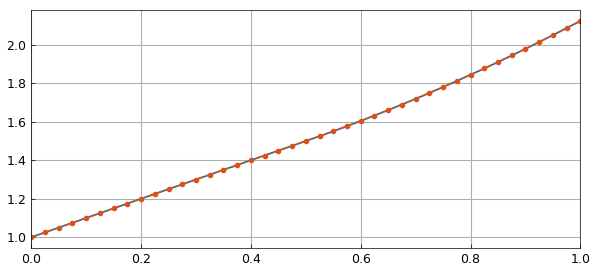
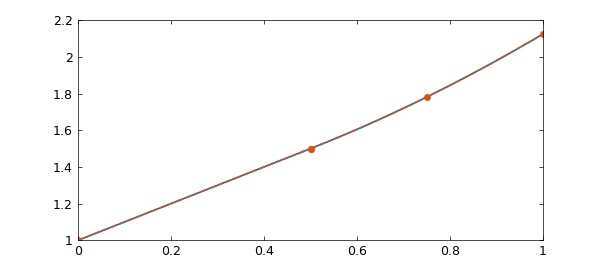
Verify two-interval delay output and preserve integration gap evidence

diff --git a/examples/ode-nonlin/delay_differential_equations.py b/examples/ode-nonlin/delay_differential_equations.py
@@ -217,6 +217,22 @@ def _source_interval_boundary_curve(numerical):
     return fig
 
 
+def _source_two_interval_delay_curve(exact, numerical):
+    """Render the source two-interval constant-delay plot with reference axes."""
+    from chebfunjax.plotting import matlab_plot
+
+    fig = plt.figure(figsize=(6, 2.7))
+    ax = fig.add_axes([.13, .11, .775, .815])
+    matlab_plot(exact, "-", numerical, ".--", ax=ax, markersize=15)
+    ax.set(xlim=(0, 1), ylim=(1, 2.2),
+           xticks=np.arange(0, 1.01, .2), yticks=np.arange(1, 2.21, .2))
+    ax.xaxis.set_major_formatter(FormatStrFormatter("%g"))
+    ax.yaxis.set_major_formatter(FormatStrFormatter("%g"))
+    ax.grid(False)
+    ax.tick_params(direction="in", top=True, right=True)
+    return fig
+
+
 def _source_second_order_delay_curve(exact, numerical):
     """Render the source second-order pantograph plot with reference axes."""
     from chebfunjax.plotting import matlab_plot
@@ -396,13 +412,13 @@ def run():
                domain=(0.0, 0.5, 1.0))
     N.lbc = 1.0
     xc = N.solve(0.0)
-    _show(xc)
-    sol7 = lambda s: np.where(s <= p, s + 1,
-                              (a * p + 1) + a * (s - p) * (.5 * a * (s - p) + 1))
-    tt = np.linspace(0, 1, 1001)
-    err = float(np.max(np.abs(np.asarray(xc(tt)) - sol7(tt))))
+    print(f"x =\n{xc!r}")
+    sol7 = chebfun([lambda t: t + 1,
+                   lambda t: (a * p + 1) + a * (t - p) * (.5 * a * (t - p) + 1)],
+                  domain=(0.0, 0.5, 1.0))
+    err = float((xc - sol7).norm())
     print(f"err =\n     {err:.15e}")
-    _plot_pair(sol7, xc, (0, 1))
+    _save(_source_two_interval_delay_curve(sol7, xc), source_axes=True)
 
     # ----- 8. Longer domain: six pieces --------------------------------
     _output_slot(8)

diff --git a/docs/examples/ode-nonlin/DelayDifferentialEquations.md b/docs/examples/ode-nonlin/DelayDifferentialEquations.md
@@ -7,7 +7,7 @@
 Python translation: [`examples/ode-nonlin/delay_differential_equations.py`](https://github.com/ma-gilles/chebfunjax/blob/main/examples/ode-nonlin/delay_differential_equations.py)
 
 
-CPU output has been verified for the explicit discretizations, the first two pantograph solves, the hand-written Newton iteration, and the constant-delay solves in output slots 8 and 9, the public Volterra solve in slot 11, and the self-composition solve in slot 14, and the nonlinear pantograph solution in slot 15, and the coupled pantograph system in slot 16, and the cubic state-dependent delay in slot 17, and the vanishing-delay solve in slot 18, and the continuous/pantograph integral solve in slot 19, and the second-order pantograph solve in slot 20, and the interval-boundary solve in slot 21 (20 output blocks). Slot 15 stdout was reconstructed from byte-verified saved solution data after an observer failure; Python warning capture is unavailable. The remaining 3 output blocks are pending. Figures 08 and 10 were rendered from qualified saved solutions and compared with the native reference style; Figures 09 and 11 now show the computed operator sparsity matrices. Both match the native nonzero patterns (1241 and 4011 nonzeros). Full matrix entries still differ by up to 2.75e-11. Markers now use the historical physical-size and dot-diameter policy; raster and font differences remain. Figure 13 uses the qualified Volterra solution and historical dot-diameter policy; font and raster differences remain. Figure 15 overlays the qualified hand-Newton data and public self-composition solution. Figure 16 uses the qualified nonlinear pantograph solution; native sample differences are at most 7.77e-16. Figure 17 uses the qualified two-component system solution and native plotting styles; observed sample differences are at most 1.36e-14. Figure 18 uses the qualified cubic solution; observed sample differences are at most 4.45e-16. Figure 19 uses the qualified vanishing-delay solution; observed sample differences are at most 1.28e-13. Figure 20 uses the qualified continuous/pantograph solution; observed sample differences are at most 3.56e-15. Figure 21 uses the qualified second-order pantograph solution; observed sample differences are at most 1.39e-15. Figure 22 uses the qualified interval-boundary solution; observed sample differences are at most 1.12e-16. Other figures retain their existing assets and remain unqualified. The whole page is incomplete.
+CPU output has been verified for the explicit discretizations, the first two pantograph solves, the hand-written Newton iteration, and the constant-delay solves in output slots 7, 8, and 9, the public Volterra solve in slot 11, and the self-composition solve in slot 14, and the nonlinear pantograph solution in slot 15, and the coupled pantograph system in slot 16, and the cubic state-dependent delay in slot 17, and the vanishing-delay solve in slot 18, and the continuous/pantograph integral solve in slot 19, and the second-order pantograph solve in slot 20, and the interval-boundary solve in slot 21 (21 of 23 output blocks). Slot 15 stdout was reconstructed from byte-verified saved solution data after an observer failure; Python warning capture is unavailable. The remaining 2 output blocks are pending. Figure 07 uses the qualified two-interval solution; corresponding sample differences are at most 3.56e-15 (captured grid coordinates differ by at most 1.12e-16). Boundary markers are clipped differently from the native reference; full figure parity remains unverified. Figures 08 and 10 were rendered from qualified saved solutions and compared with the native reference style; Figures 09 and 11 now show the computed operator sparsity matrices. Both match the native nonzero patterns (1241 and 4011 nonzeros). Full matrix entries still differ by up to 2.75e-11. Markers now use the historical physical-size and dot-diameter policy; raster and font differences remain. Figure 13 uses the qualified Volterra solution and historical dot-diameter policy; font and raster differences remain. Figure 15 overlays the qualified hand-Newton data and public self-composition solution. Figure 16 uses the qualified nonlinear pantograph solution; native sample differences are at most 7.77e-16. Figure 17 uses the qualified two-component system solution and native plotting styles; observed sample differences are at most 1.36e-14. Figure 18 uses the qualified cubic solution; observed sample differences are at most 4.45e-16. Figure 19 uses the qualified vanishing-delay solution; observed sample differences are at most 1.28e-13. Figure 20 uses the qualified continuous/pantograph solution; observed sample differences are at most 3.56e-15. Figure 21 uses the qualified second-order pantograph solution; observed sample differences are at most 1.39e-15. Figure 22 uses the qualified interval-boundary solution; observed sample differences are at most 1.12e-16. Other figures retain their existing assets and remain unqualified. The whole page is incomplete.
 
 ## Introduction
 
@@ -195,7 +195,14 @@ plot(sol, '-', x, '.--', MS, 15)
 ```
 
 ```text
-(no matching output)
+x =
+   chebfun column (2 smooth pieces)
+       interval       length     endpoint values
+[       0,     0.5]        2         1      1.5
+[     0.5,       1]        3       1.5      2.1
+vertical scale = 2.1    Total length = 5
+err =
+     6.805727959764803e-16
 ```
 
 ![DelayDifferentialEquations figure 07](../../images/ode-nonlin/DelayDifferentialEquations_07.png)
